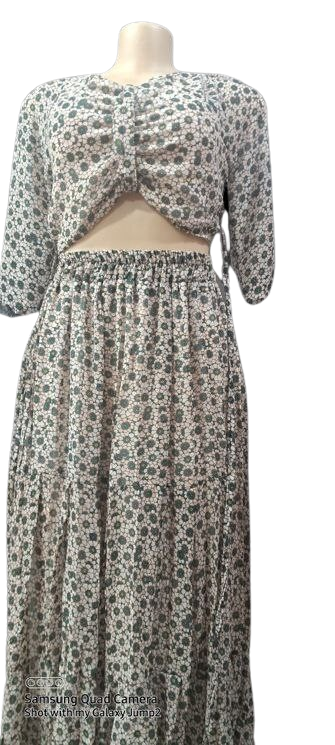
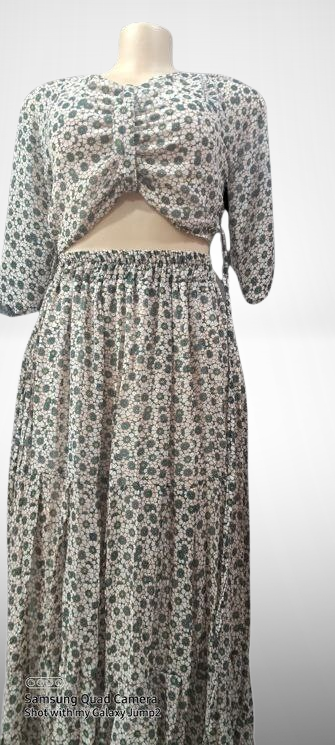
product-update

diff --git a/src/componente/PRODUCT/Product.js b/src/componente/PRODUCT/Product.js
@@ -1,6 +1,6 @@
 import React from 'react'
 import "./product.css"
-import img4 from "../../assets/Image/product/img1.jpg"
+import img4 from "../../assets/Image/product/img1.png"
 import img5 from "../../assets/Image/product/img2.png"
 import img6 from "../../assets/Image/product/img3.png"
 
